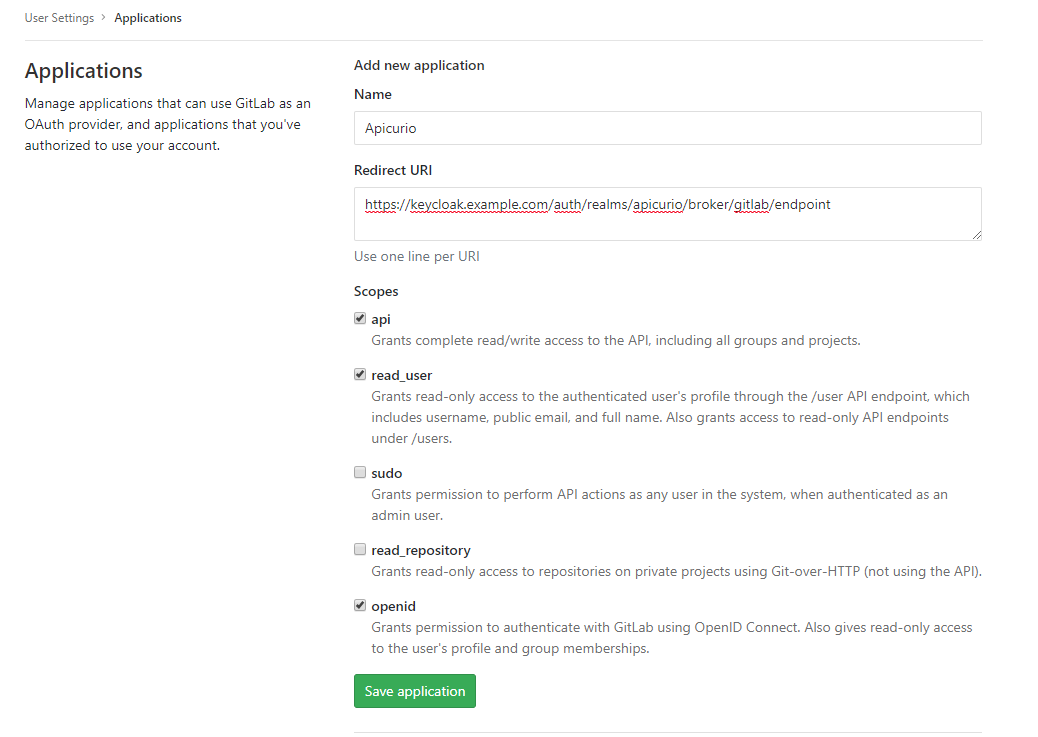
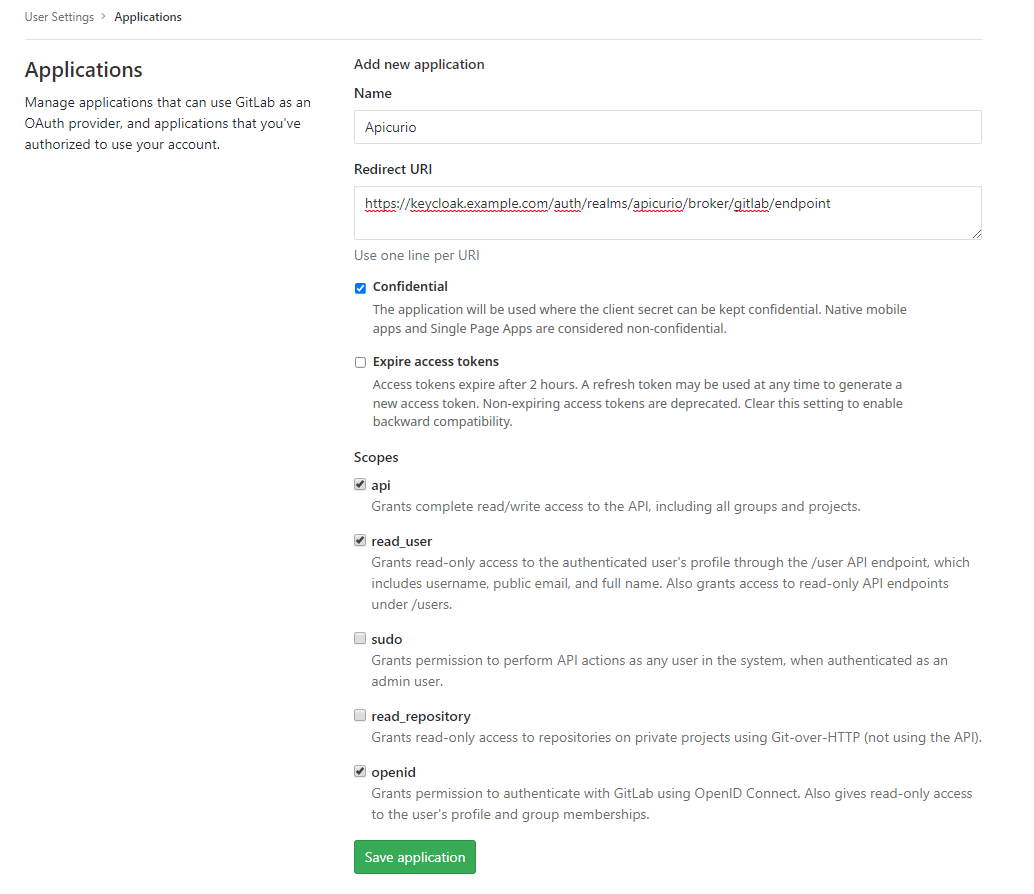
Update docs for gitlab

Changed region(s): [[0.3404, 0.0624, 0.9594, 0.9986], [0.0, 0.0624, 0.3095, 0.2185], [0.0309, 0.0, 0.1857, 0.0312]]

diff --git a/_pages/studio/docs/using-a-local-installation-of-gitlab.md b/_pages/studio/docs/using-a-local-installation-of-gitlab.md
@@ -93,6 +93,8 @@ You will need to provide the following information in the form:
 
 * **Name** - Apicurio
 * **Redirect URI** - https://keycloak.example.com/auth/realms/apicurio/broker/gitlab/endpoint
+* **Confidential** - typically set to enabled
+* **Expire access tokens** - should currently be set to *disabled* (until we can properly support refresh tokens)
 * **Scopes** - api, read_user, openid
 
 > **Redirect URI**
